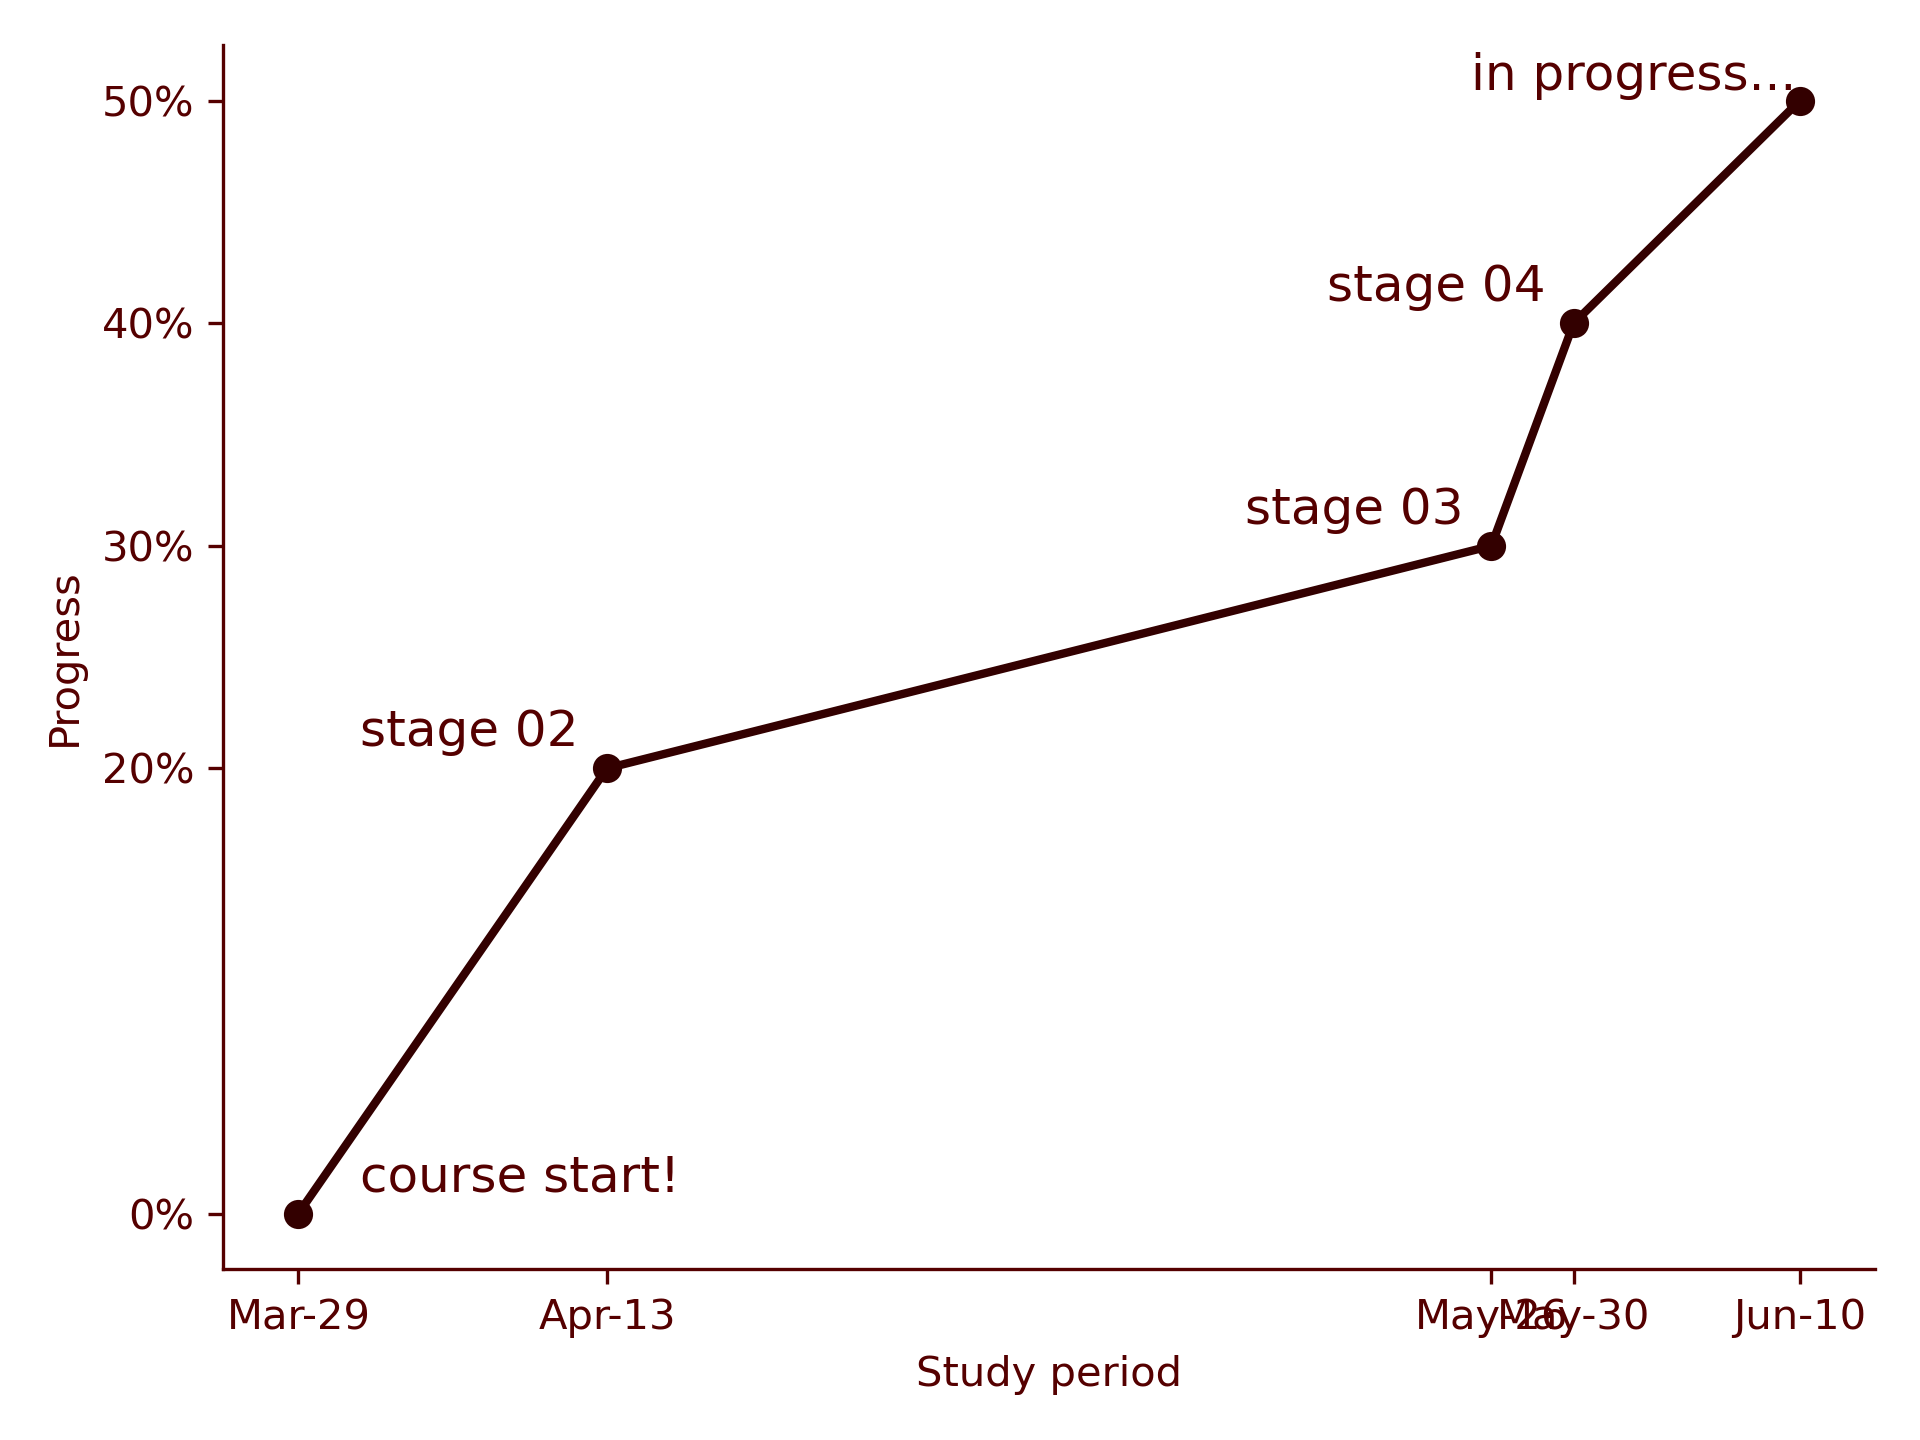
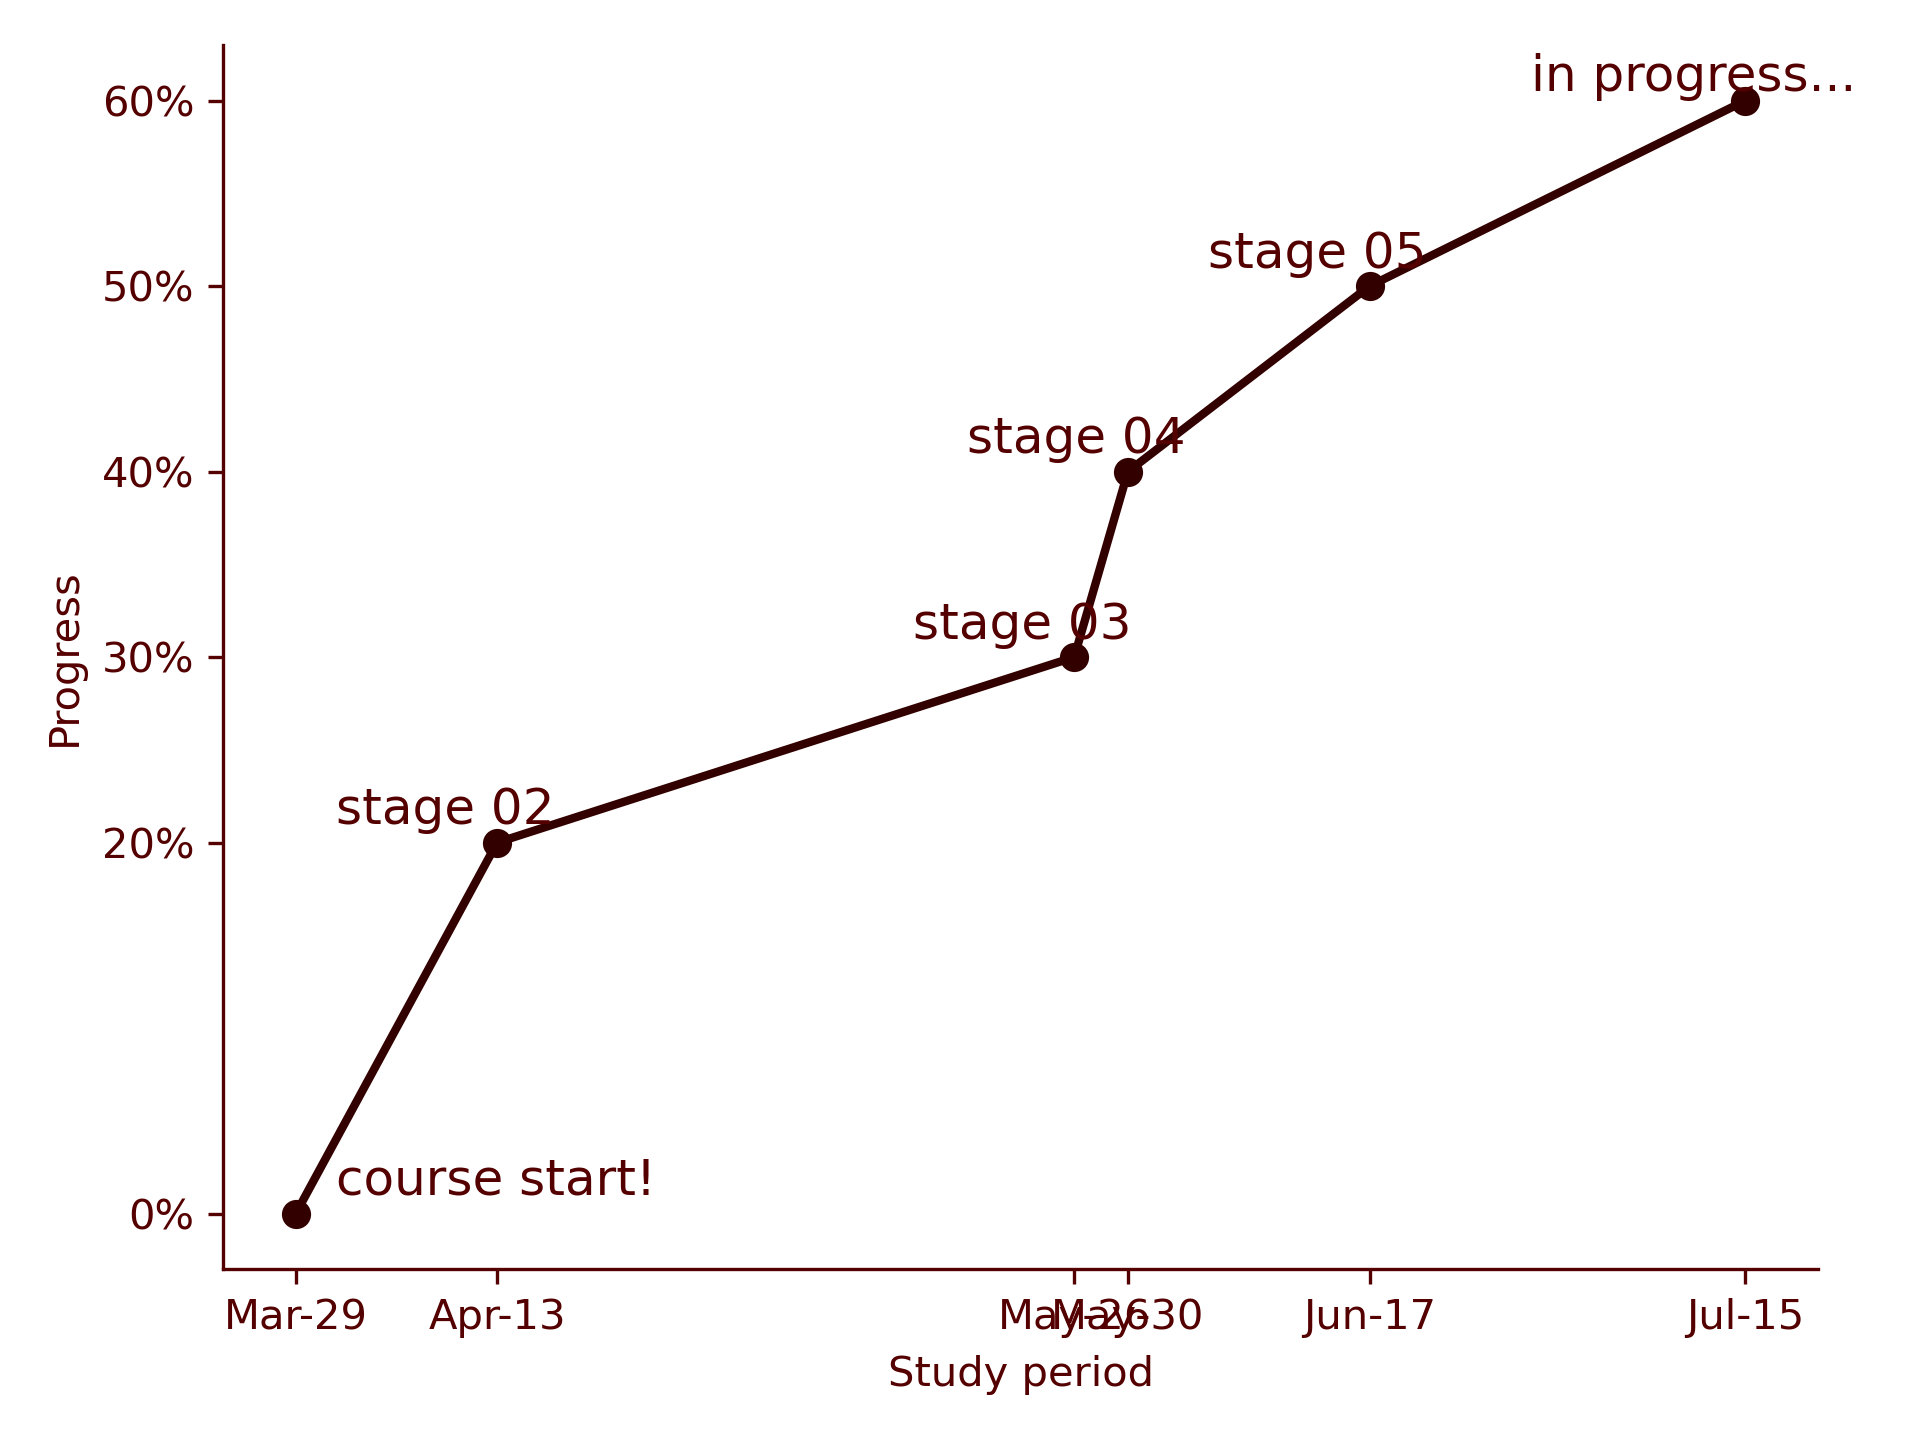
Index.html update

diff --git a/index.html b/index.html
@@ -171,7 +171,7 @@
                 <path fill-rule="nonzero" d="M307.56 301.51c.51 10.05 3.9 17.2 10.19 21.35 15.76 10.52 31.28-1.96 42.64-12.05L502.5 183.04c12.67-11.46 12.67-27.76 0-39.22L363.62 18.96c-11.9-10.69-28.78-26.39-45.87-14.99-6.29 4.17-9.68 11.33-10.19 21.38v76.31H6.33c-3.48 0-6.33 2.85-6.33 6.33v110.88c0 3.47 2.86 6.33 6.33 6.33h301.23v76.31z"/>
             </svg>
             <h2>What's coming next?</h2>
-            <p><strong>Stage 05:</strong> In this module, I'll explore how you can manipulate the browser using DOM, about callback functions, clean code principles, ES6 modules, factory patterns, depedency injection, code refactoring, and more...</p>
+            <p><strong>Stage 06:</strong> IIn this module I learn about Single Page Applications (SPA), events, assynchronism, object oriented programming concepts like classes, inheritance and polimorphism. I also learn how to handle errors via try-catch statements, how to use GitHub's API and much more. </p>
             <div id="chart">
                 <img src="images/chart.png" alt="Overview of my progress in the course">
             </div>

diff --git a/chart.py b/chart.py
@@ -15,10 +15,11 @@ finishing_dates = [
     date(2022, 4, 13),  # When I finished Stage 02
     date(2022, 5, 26),  # When I finished Stage 03
     date(2022, 5, 30),  # When I finished Stage 04
-    date.today(),  # Expected to finish Stage 05 anytime soon
+    date(2022, 6, 17),  # When I finished Stage 05
+    date(2022, 7, 15),  # Expected to finish Stage 06
 ]
 
-accumulated_progress = [0, .2, .3, .4, .5]
+accumulated_progress = [0, .2, .3, .4, .5, .6]
 
 fig, ax = plt.subplots(1, 1, dpi=300)
 
@@ -71,7 +72,11 @@ ax.text(
     fontdict=text_font
 )
 ax.text(
-    mdates.date2num(finishing_dates[4]) - 16, accumulated_progress[4] + 0.005, 'in progress...',
+    mdates.date2num(finishing_dates[4]) - 12, accumulated_progress[4] + 0.01, 'stage 05',
+    fontdict=text_font
+)
+ax.text(
+    mdates.date2num(finishing_dates[5]) - 16, accumulated_progress[5] + 0.005, 'in progress...',
     fontdict=text_font
 )
 
